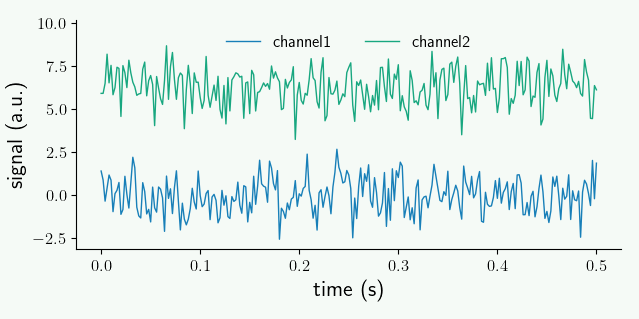
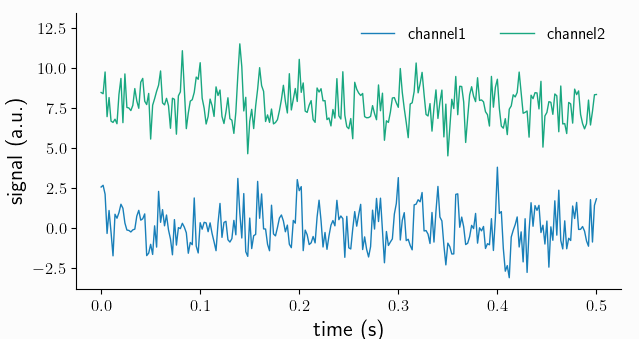
WIP: Include preprocessing into quickstart
- partly addresses #276

On branch dev
Your branch is up to date with 'origin/dev'.

Changes to be committed:
	modified:   doc/source/quickstart/ar2_nw.py
	modified:   doc/source/quickstart/damped_harm.py
	modified:   doc/source/quickstart/damped_signals.png
	modified:   doc/source/quickstart/mtmfft_spec.png
	modified:   doc/source/quickstart/quickstart.rst
	modified:   doc/source/quickstart/wavelet_spec.png

diff --git a/doc/source/quickstart/damped_harm.py b/doc/source/quickstart/damped_harm.py
@@ -10,19 +10,24 @@ samplerate = 500   # in Hz
 # the sampling times vector needed for construction
 tvec = np.arange(nSamples) * 1 / samplerate
 # the 30Hz harmonic
-harm = np.cos(2 * np.pi * 30 * tvec)
-# dampening down to 10% of the original amplitude
+harm30 = np.cos(2 * np.pi * 30 * tvec)
+# linear dampening down to 10% of the original amplitude
 dampening = np.linspace(1, 0.1, nSamples)
-signal = dampening * harm
+signal = dampening * harm30
+# the 50Hz nuisance
+harm50 = np.cos(2 * np.pi * 50 * tvec)
 
 # collect trials
 trials = []
 for _ in range(nTrials):
 
-    # start with the noise
     trial = np.random.randn(nSamples, nChannels)
     # now add the damped harmonic on the 1st channel
     trial[:, 0] += signal
+    # finally we add the nuisance signal on both channels
+    trial[:, 0] += harm50
+    trial[:, 1] += harm50
+
     trials.append(trial)
 
 # instantiate Syncopy data object

diff --git a/doc/source/quickstart/ar2_nw.py b/doc/source/quickstart/ar2_nw.py
@@ -4,16 +4,12 @@ from syncopy.tests import synth_data
 
 nTrials = 50
 nSamples = 1500
-trls = []
+
 # 2x2 Adjacency matrix to define coupling
 AdjMat = np.zeros((2, 2))
 # coupling 0 -> 1
 AdjMat[0, 1] = 0.2
 
-for _ in range(nTrials):
 
-    trl = synth_data.AR2_network(AdjMat, nSamples=nSamples)
-    trls.append(trl)
-
-data = spy.AnalogData(trls, samplerate=500)
+data = synth_data.AR2_network(nTrials, samplerate=500, AdjMat=AdjMat, nSamples=nSamples)
 spec = spy.freqanalysis(data, tapsmofrq=3, keeptrials=False)

diff --git a/doc/source/quickstart/quickstart.rst b/doc/source/quickstart/quickstart.rst
@@ -16,7 +16,7 @@ Here we want to quickly explore some standard analyses for analog data (e.g. MUA
 Preparations
 ============
 
-To start with a clean slate, let's construct a synthetic dataset consisting of a damped harmonic and additive white noise:
+To start with a clean slate, let's construct a synthetic dataset consisting of a damped 30Hz harmonic, a 50Hz nuisance signal  and additive white noise:
 
 .. literalinclude:: /quickstart/damped_harm.py
 
@@ -27,10 +27,7 @@ With this we have a dataset of type :class:`~syncopy.AnalogData`, which is inten
 .. image:: damped_signals.png
    :height: 260px
   
-By construction, we made the (white) noise of the same strength as the signal, hence by eye the oscillations present in ``channel1`` are hardly visible.
-
-
-To recap: we have generated a synthetic dataset white noise on both channels, and ``channel1`` additionally carries the damped harmonic signal.
+To recap: we have generated a synthetic dataset with a 50Hz nuisance signal and white noise on both channels, and ``channel1`` additionally carries the damped harmonic signal.
 
 .. hint::
    Further details about artificial data generation can be found at the :ref:`synth_data` section.
@@ -53,7 +50,7 @@ which gives nicely formatted output:
             cfg : dictionary with keys ''
         channel : [2] element <class 'numpy.ndarray'>
       container : None
-           data : 50 trials of length 1000.0 defined on [50000 x 3] float64 Dataset of size 1.14 MB
+           data : 50 trials of length 1000.0 defined on [50000 x 2] float64 Dataset of size 1.14 MB
          dimord : time by channel
        filename : /xxx/xxx/.spy/spy_910e_572582c9.analog
            mode : r+
@@ -86,9 +83,9 @@ Multitapered Fourier Analysis
 
 .. code-block::
 
-   fft_spectra = spy.freqanalysis(data, method='mtmfft', foilim=[0, 50], tapsmofrq=2)
+   fft_spectra = spy.freqanalysis(data, method='mtmfft', foilim=[0, 80], tapsmofrq=2)
 
-The parameter ``foilim`` controls the *frequencies of interest  limits*, so in this case we are interested in the range 0-50Hz. Starting the computation interactively will show additional information::
+The parameter ``foilim`` controls the *frequencies of interest  limits*, so in this case we are interested in the range 0-80Hz. Starting the computation interactively will show additional information::
 
   Syncopy <validate_taper> INFO: Using 3 taper(s) for multi-tapering
 
@@ -106,7 +103,7 @@ To quickly have something for the eye we can plot the power spectrum of a single
 .. image:: mtmfft_spec.png
    :height: 260px
 
-We clearly see a smoothed spectral peak at 30Hz, channel 2 just contains the flat white noise floor. Comparing with the signals plotted in the time domain above, we see the power of the frequency representation of an oscillatory signal.
+We clearly see a smoothed spectral peak at 30Hz in channel1, and the larger 50Hz peaks plus the flat white noise floor in both channels. Comparing with the signals plotted in the time domain above, we see the power of the frequency representation of an oscillatory signal.
 
 The related short time Fourier transform can be computed via ``method='mtmconvol'``, see :func:`~syncopy.freqanalysis` for more details and examples.
 
@@ -119,7 +116,7 @@ Wavelet Analysis
 In Syncopy we can compute the Wavelet transform by calling :func:`~syncopy.freqanalysis` with the ``method='wavelet'`` argument::
 
   # define frequencies to scan
-  fois = np.arange(10, 50, step=2) # 2Hz stepping
+  fois = np.arange(10, 80, step=2) # 2Hz stepping
   wav_spectra = spy.freqanalysis(data,
                                  method='wavelet',
 				 foi=fois,
@@ -142,9 +139,19 @@ To quickly inspect the results for each channel we can use::
 .. image:: wavelet_spec.png
    :height: 250px
 
-Again, we see a strong 30Hz signal in the 1st channel, and channel 2 is devoid of any rhythms. However, in contrast to the ``method=mtmfft`` call,  now we also get information along the time axis. The dampening of the harmonic over time in channel 1 is clearly visible.
+Again, we see the 30Hz signal in the 1st channel, and channel 2 only carries the 50Hz nuisance signal. However, in contrast to the ``method=mtmfft`` call,  now we also get information along the time axis: the dampening of the 30Hz harmonic over time in channel1 is clearly visible.
 
 An improved method, the superlet transform, providing super-resolution time-frequency representations can be computed via ``method='superlet'``, see :func:`~syncopy.freqanalysis` for more details.
+
+
+Preprocessing
+=============
+
+Removing this dominating 50Hz signal::
+
+  data_pp = spy.preprocessing(data, filter_type='lp', freq=40, order=12)
+  spec_pp = spy.freqanalysis(data, foilim=[0, 80], tapsmofrq=2, keeptrials=False)
+  spec_pp.singlepanelplot()
 
 Connectivity Analysis
 =====================
